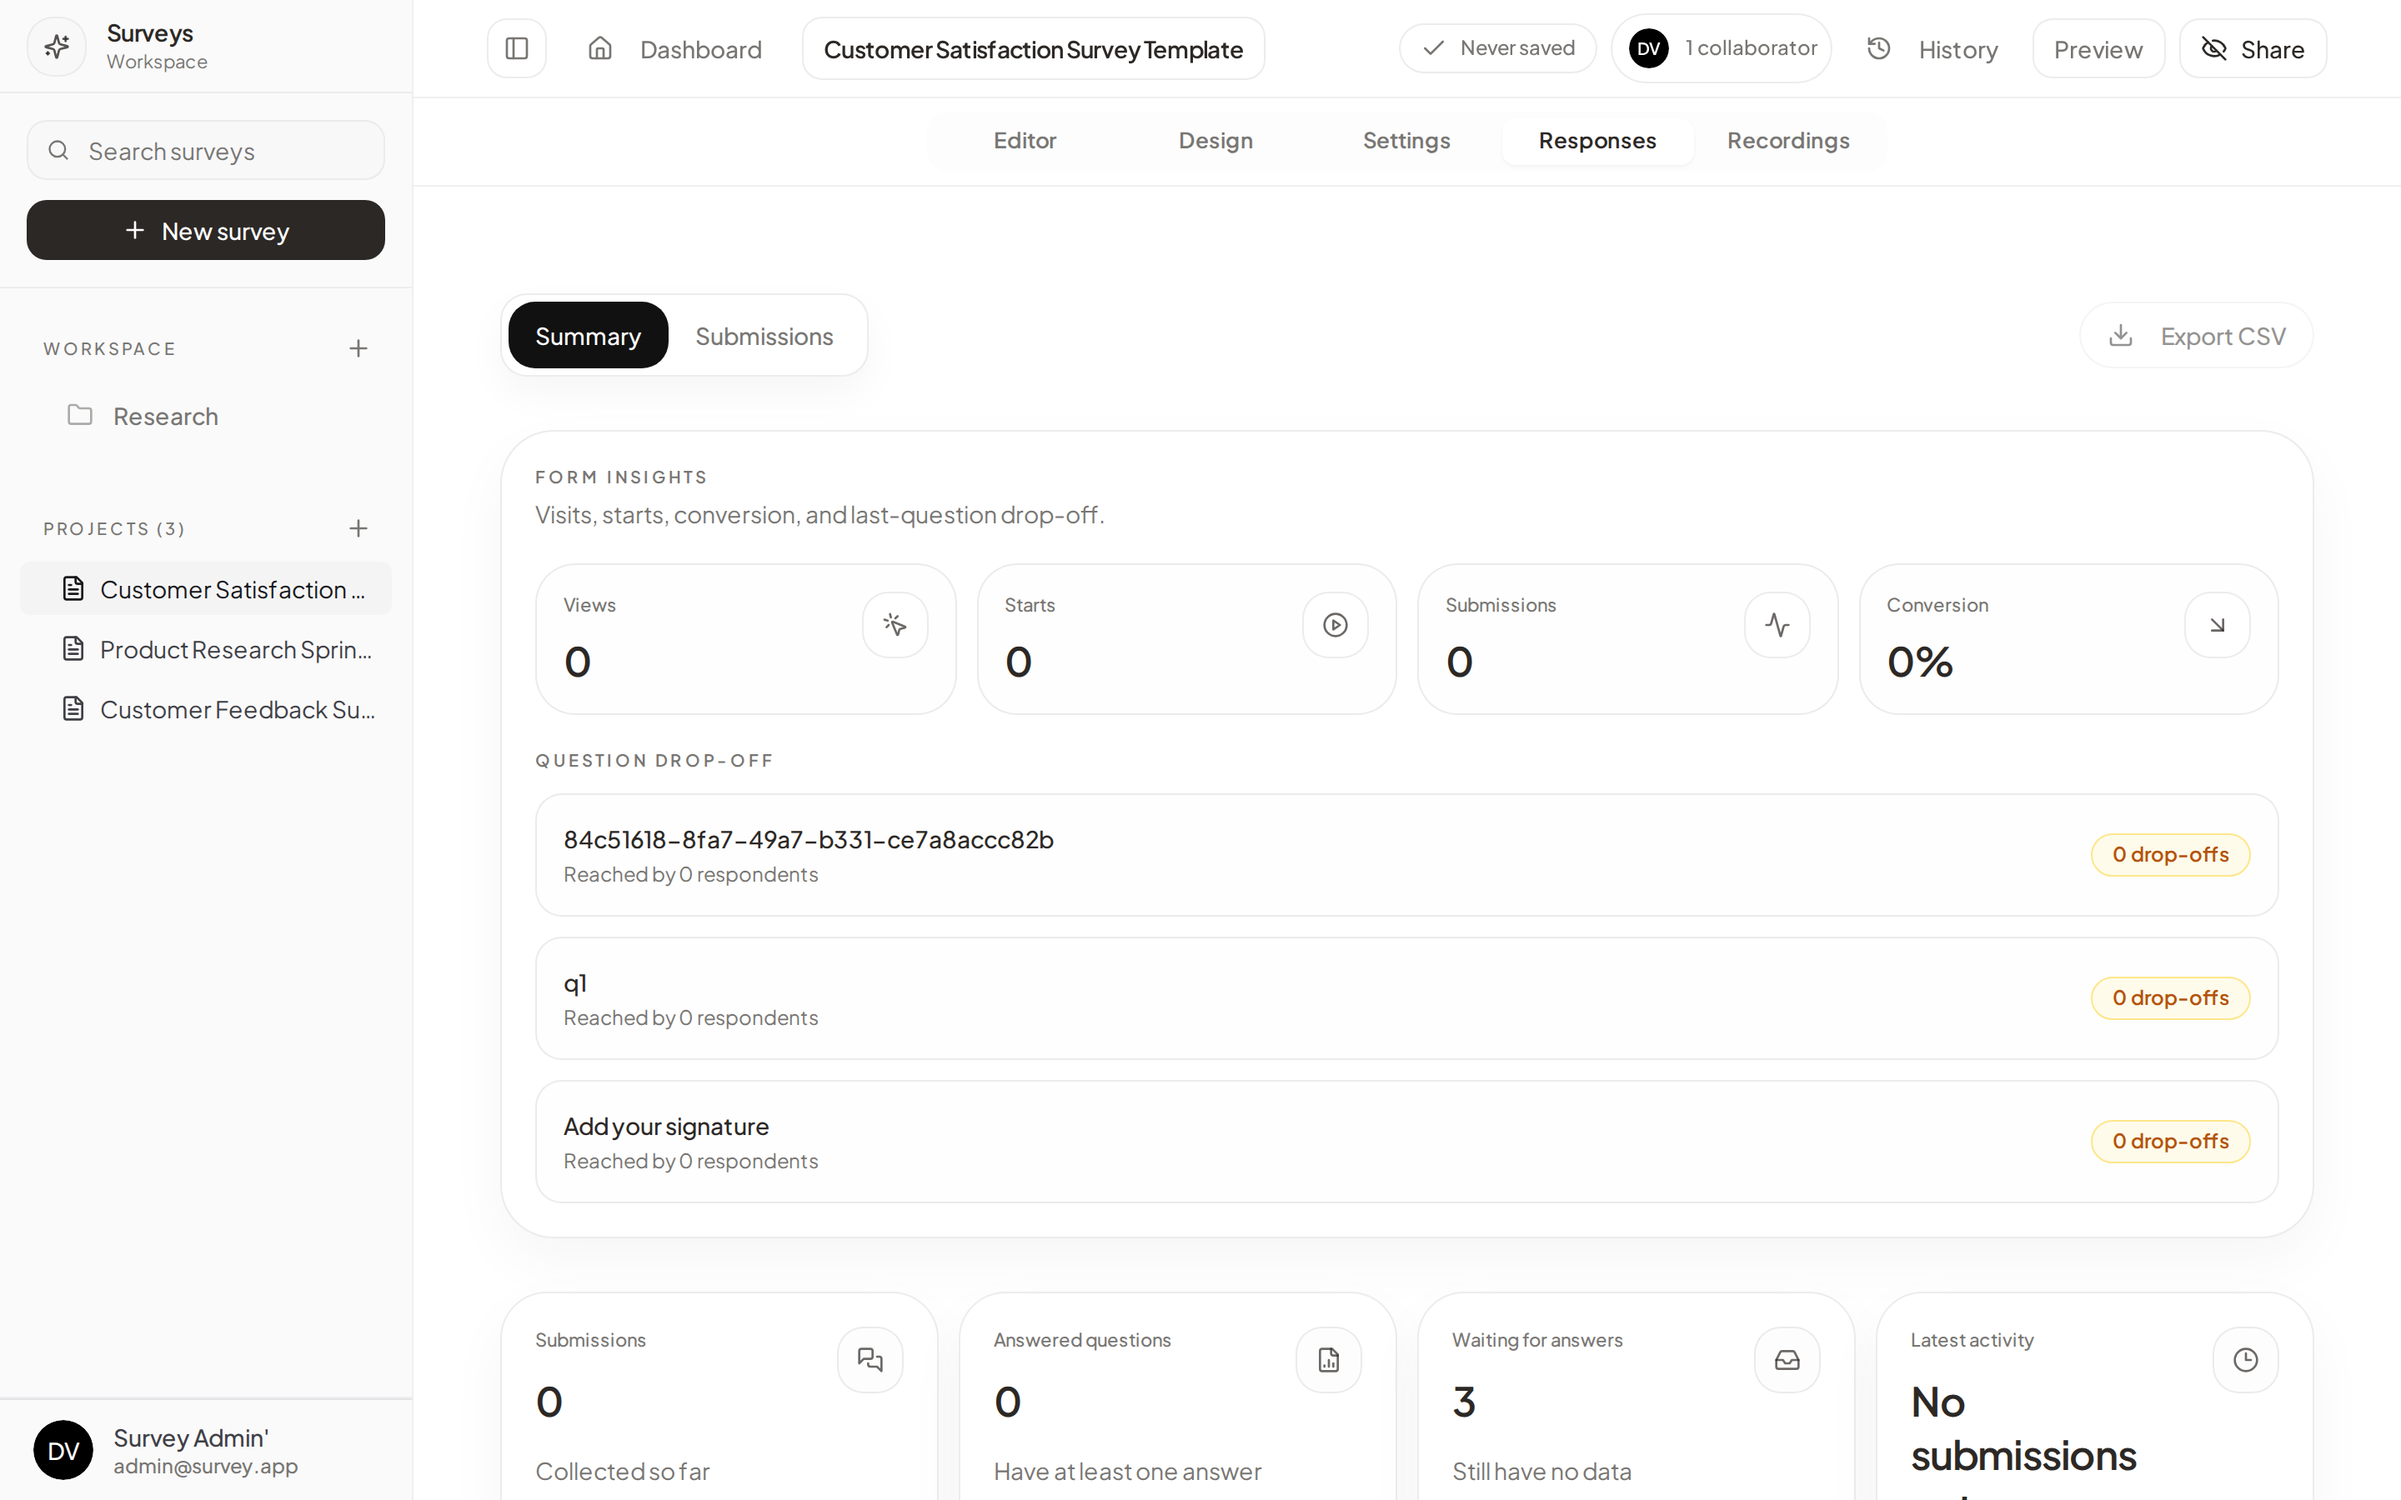
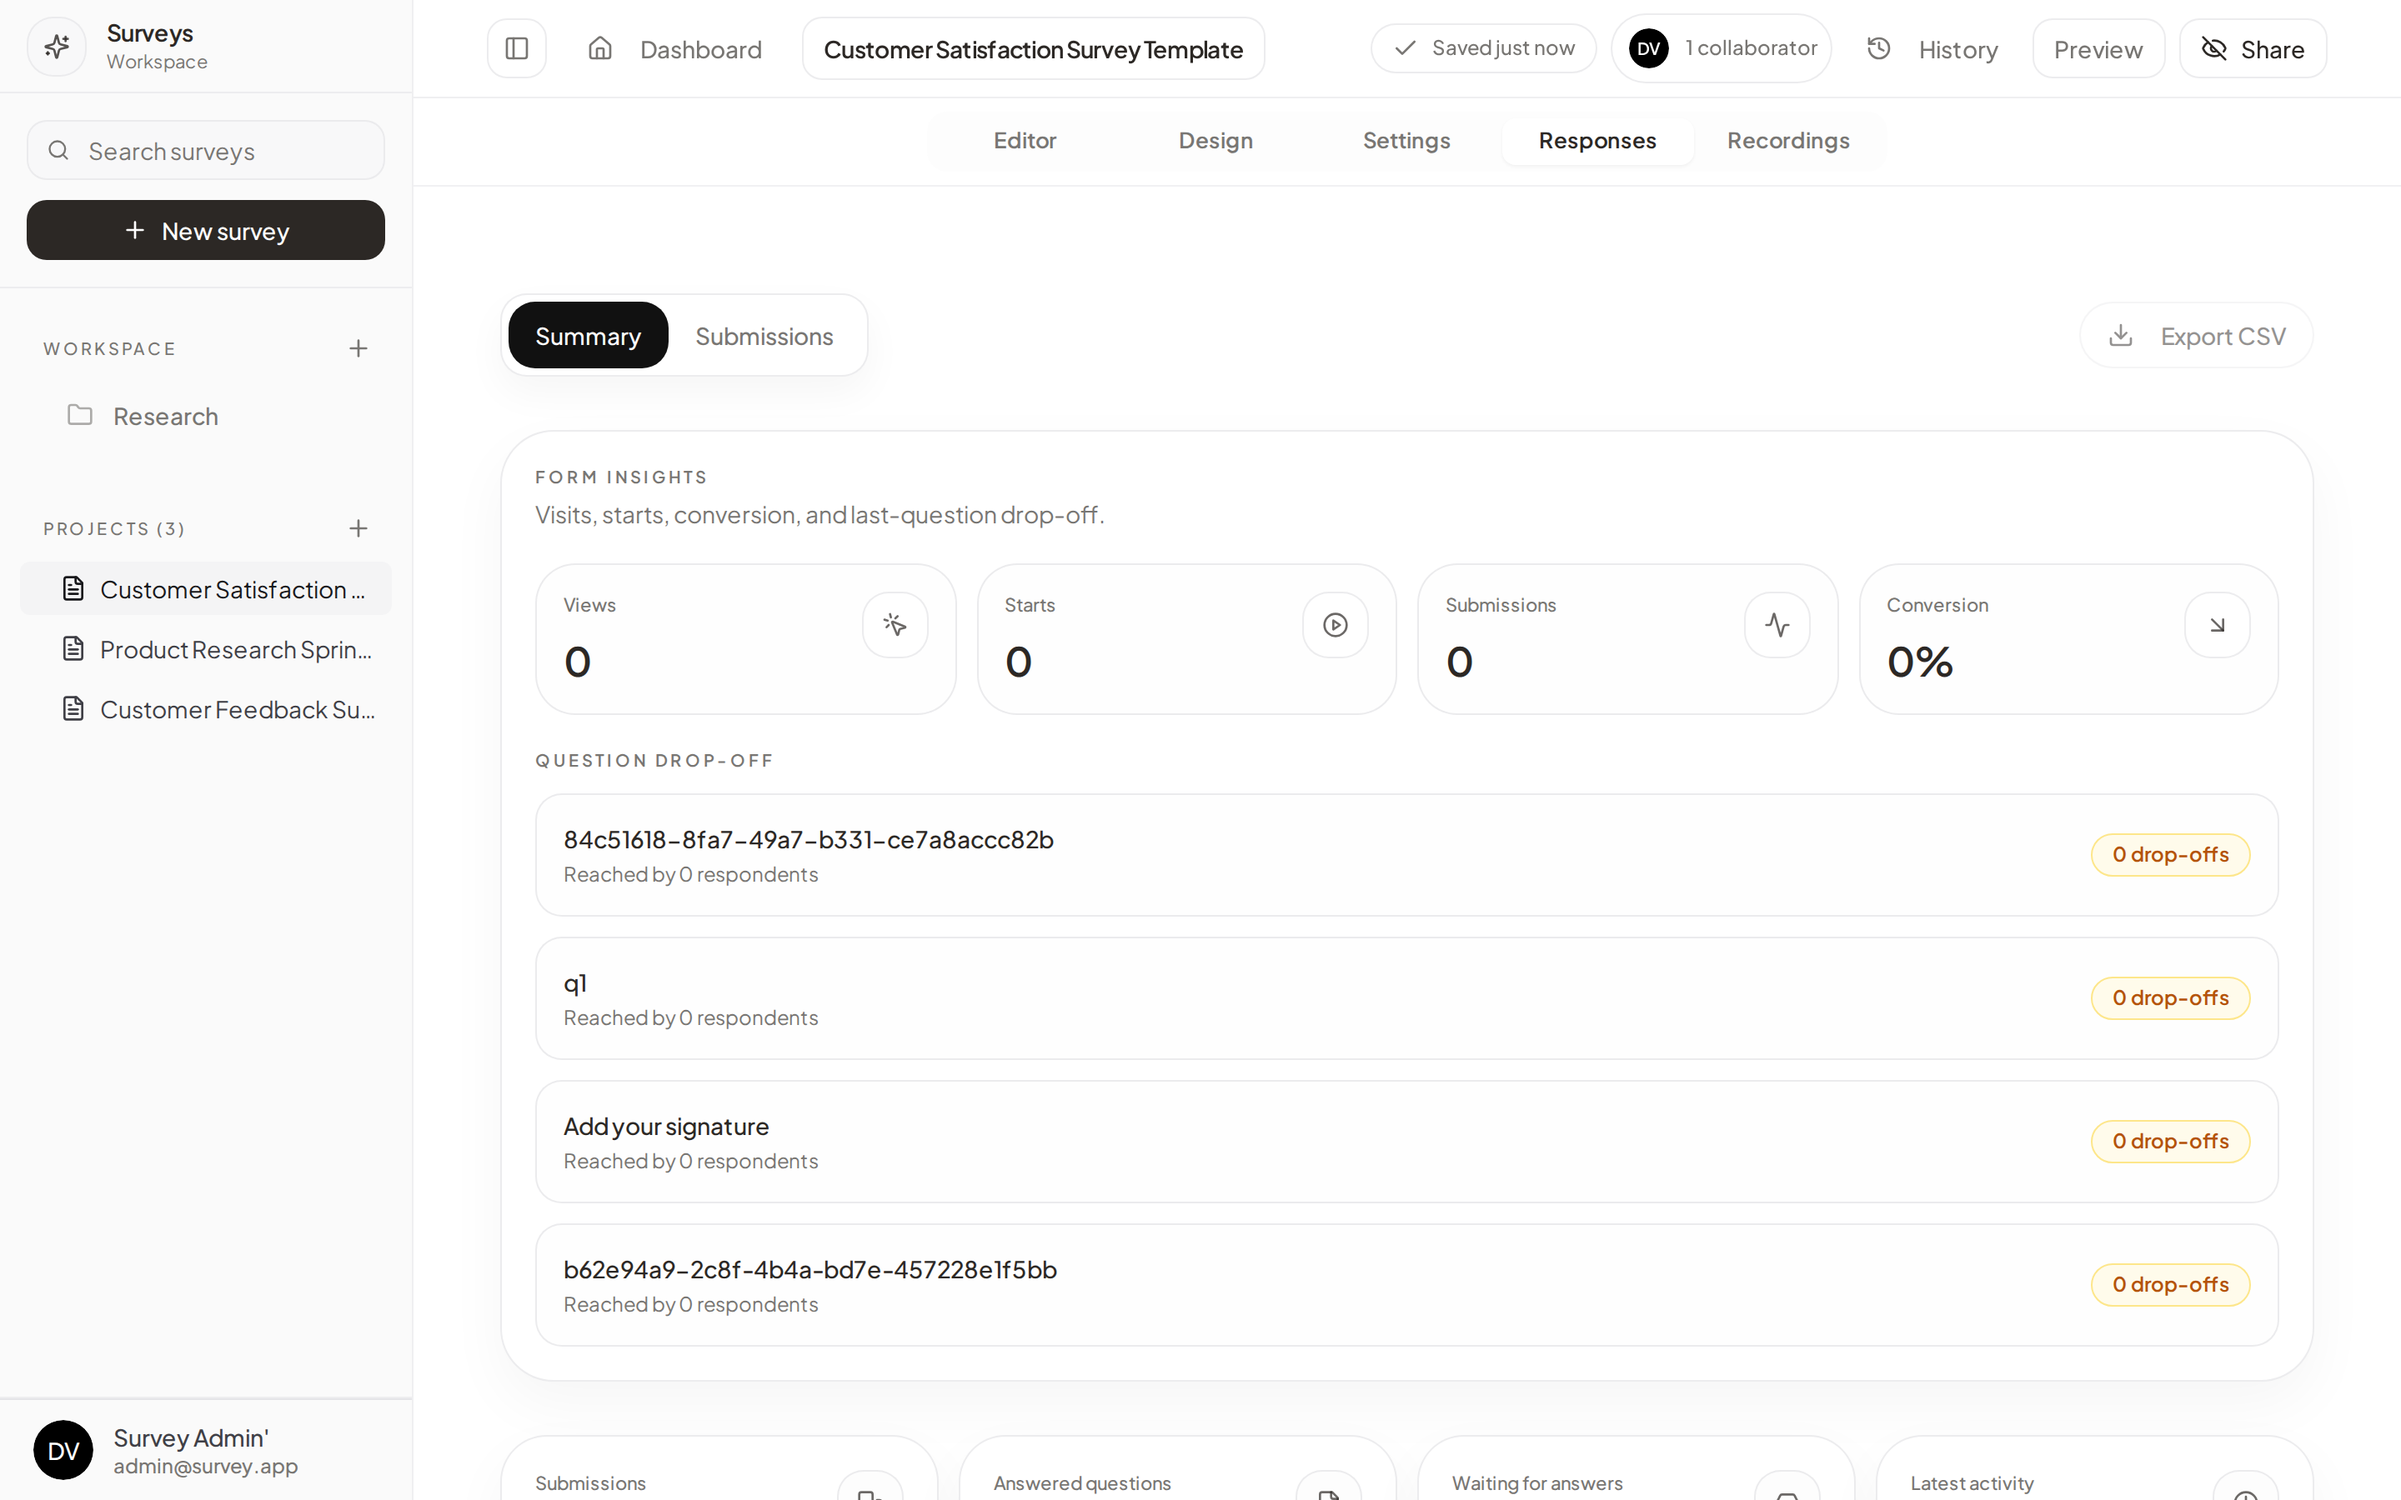
docs: add block menu and options screenshots

diff --git a/README.md b/README.md
@@ -12,6 +12,12 @@ A modern, self-hosted survey creation and management platform built for teams wh
   <img src="screenshots/02-editor.png" width="800" alt="Survey Editor">
 </p>
 <p align="center">
+  <img src="screenshots/04-blocks-menu.png" width="800" alt="Block Menu">
+</p>
+<p align="center">
+  <img src="screenshots/05-block-options.png" width="800" alt="Block Options">
+</p>
+<p align="center">
   <img src="screenshots/03-analytics.png" width="800" alt="Advanced Analytics">
 </p>
 
